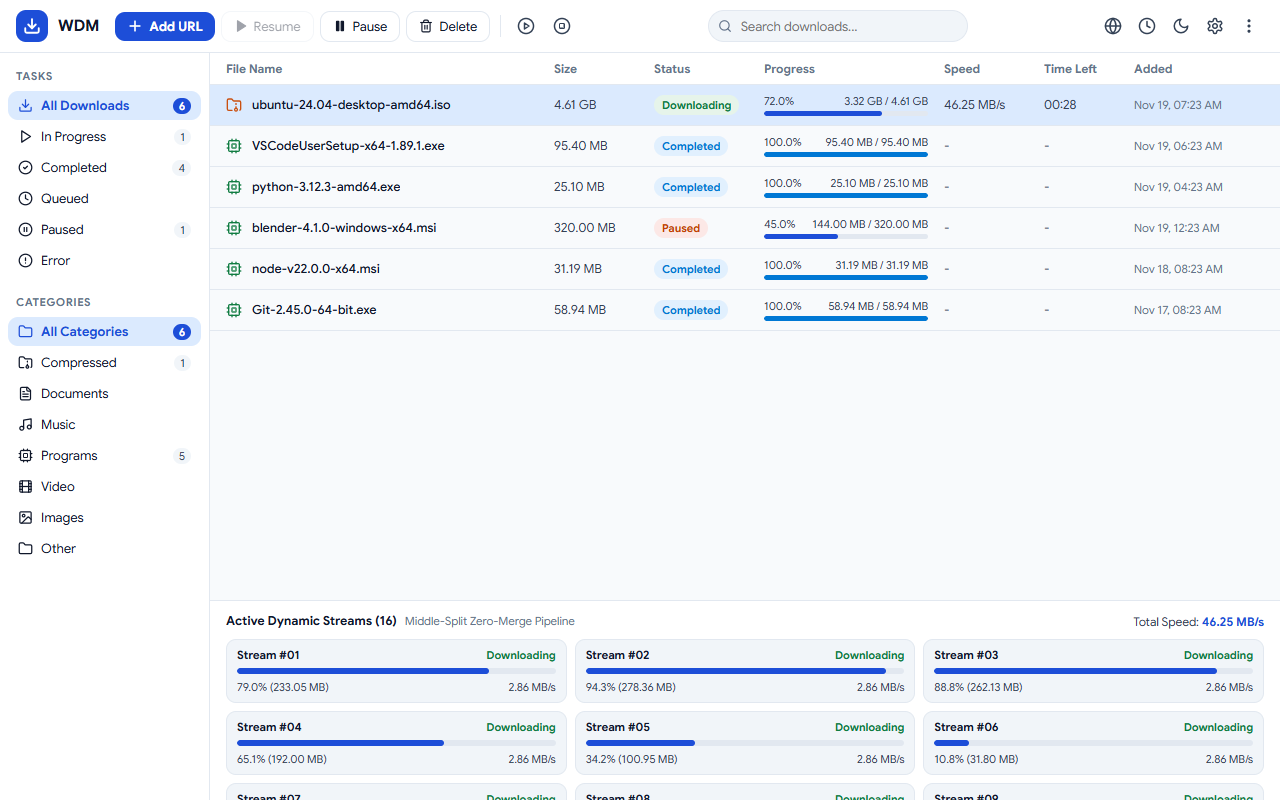
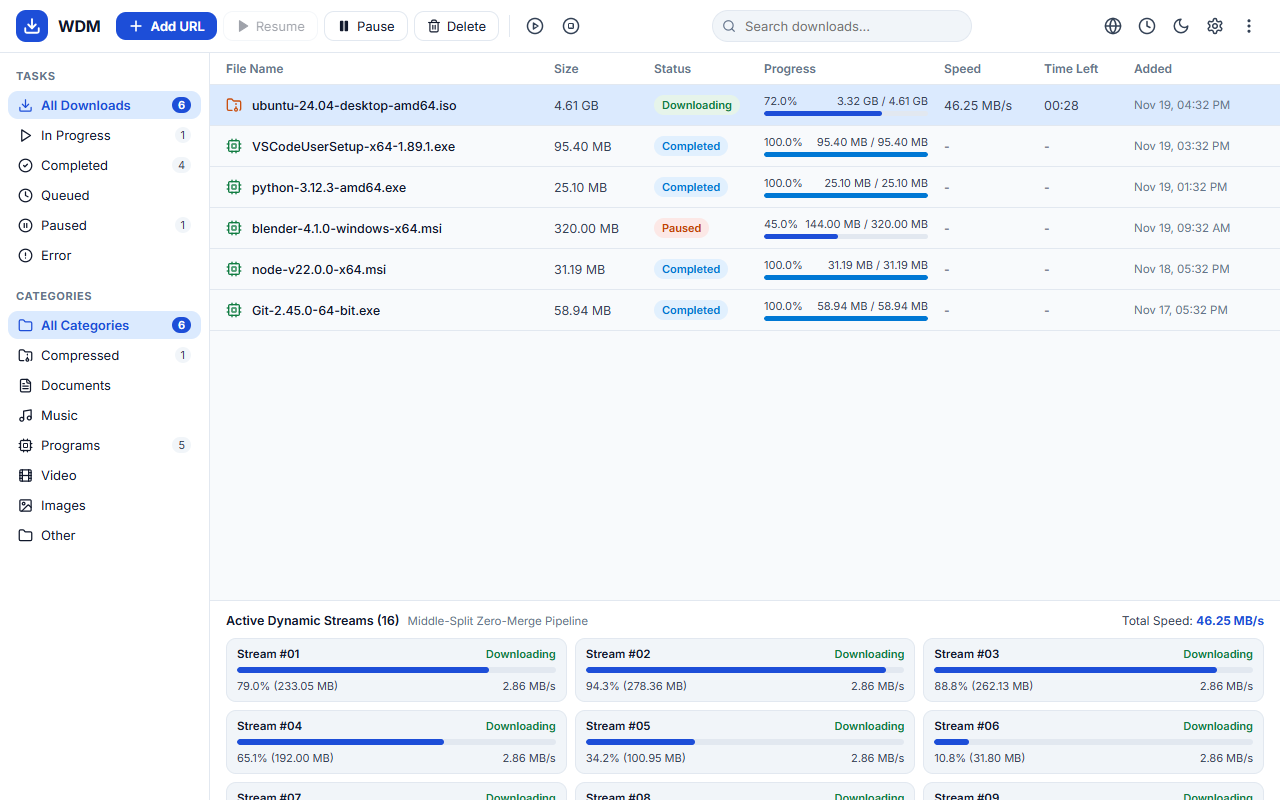
release: 2.6.1 (Inter type, cobalt links; screenshots re-captured)

diff --git a/CHANGELOG.md b/CHANGELOG.md
@@ -1,5 +1,10 @@
 # Changelog
 
+## [2.6.1] - 2026-11-19
+
+### Changed
+- New look: Technical Glassmorphism v1.0, the design system of mdanamulhasan.com. Slate canvas, Precision Cobalt accent with PLM teal highlights in dark mode, hairline borders, crisp 6/10/14 px corners, restrained shadows.
+
 ## [2.6.0] - 2026-11-19
 
 ### Changed
